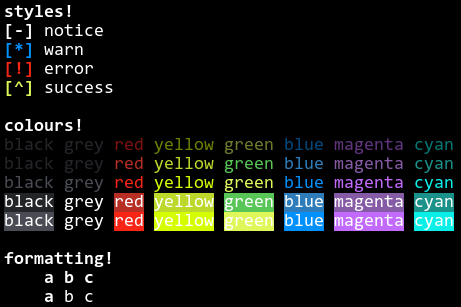
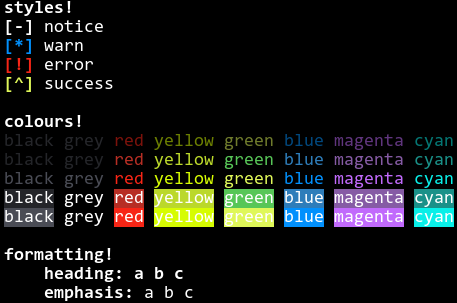
Update picture and add some example code. - New picture to better showcase formatting. - Code example.

diff --git a/tests/wip.cpp b/tests/wip.cpp
@@ -3,15 +3,15 @@
 #include <tinge.hpp>
 
 int main() {
+	// Show some styles.
 	tinge::println_h("\nstyles!");
-
 	tinge::noticeln("notice");
 	tinge::warnln("warn");
 	tinge::errorln("error");
 	tinge::successln("success");
 
 
-
+	// Show some colours.
 	tinge::println_h("\ncolours!");
 
 	tinge::println(
@@ -70,10 +70,10 @@ int main() {
 	);
 
 
+	// Showcase some formatting.
 	tinge::println_h("\nformatting!");
-
-	tinge::println_h("\ta ", "b ", "c");
-	tinge::println_em("\ta ", "b ", "c");
+	tinge::println_h("\theading: ", "a ", "b ", "c");   // Whole line is bold.
+	tinge::println_em("\temphasis: ", "a ", "b ", "c");  // First element is bold.
 
 	tinge::println();
 

diff --git a/README.md b/README.md
@@ -4,3 +4,89 @@ a simple, fast, header-only library for C++ which enables pretty colours on the 
 > Only supports terminals which have support for ANSI escape sequences.
 
 ![example1](pics/example1.png)
+
+
+```cpp
+#include <iostream>
+// #define TINGE_PLAIN
+#include <tinge.hpp>
+
+int main() {
+	// Show some styles.
+	tinge::println_h("\nstyles!");
+	tinge::noticeln("notice");
+	tinge::warnln("warn");
+	tinge::errorln("error");
+	tinge::successln("success");
+
+
+	// Show some colours.
+	tinge::println_h("\ncolours!");
+
+	tinge::println(
+		tinge::fg::dim::black,   "black ",
+		tinge::fg::dim::grey,    "grey ",
+		tinge::fg::dim::red,     "red ",
+		tinge::fg::dim::yellow,  "yellow ",
+		tinge::fg::dim::green,   "green ",
+		tinge::fg::dim::blue,    "blue ",
+		tinge::fg::dim::magenta, "magenta ",
+		tinge::fg::dim::cyan,    "cyan "
+	);
+
+	tinge::println(
+		tinge::fg::black,   "black ",
+		tinge::fg::grey,    "grey ",
+		tinge::fg::red,     "red ",
+		tinge::fg::yellow,  "yellow ",
+		tinge::fg::green,   "green ",
+		tinge::fg::blue,    "blue ",
+		tinge::fg::magenta, "magenta ",
+		tinge::fg::cyan,    "cyan "
+	);
+
+	tinge::println(
+		tinge::fg::bright::black,   "black ",
+		tinge::fg::bright::grey,    "grey ",
+		tinge::fg::bright::red,     "red ",
+		tinge::fg::bright::yellow,  "yellow ",
+		tinge::fg::bright::green,   "green ",
+		tinge::fg::bright::blue,    "blue ",
+		tinge::fg::bright::magenta, "magenta ",
+		tinge::fg::bright::cyan,    "cyan "
+	);
+
+	tinge::println(
+		tinge::bg::black,   "black",   tinge::reset, " ",
+		tinge::bg::grey,    "grey",    tinge::reset, " ",
+		tinge::bg::red,     "red",     tinge::reset, " ",
+		tinge::bg::yellow,  "yellow",  tinge::reset, " ",
+		tinge::bg::green,   "green",   tinge::reset, " ",
+		tinge::bg::blue,    "blue",    tinge::reset, " ",
+		tinge::bg::magenta, "magenta", tinge::reset, " ",
+		tinge::bg::cyan,    "cyan",    tinge::reset
+	);
+
+	tinge::println(
+		tinge::bg::bright::black,   "black",   tinge::reset, " ",
+		tinge::bg::bright::grey,    "grey",    tinge::reset, " ",
+		tinge::bg::bright::red,     "red",     tinge::reset, " ",
+		tinge::bg::bright::yellow,  "yellow",  tinge::reset, " ",
+		tinge::bg::bright::green,   "green",   tinge::reset, " ",
+		tinge::bg::bright::blue,    "blue",    tinge::reset, " ",
+		tinge::bg::bright::magenta, "magenta", tinge::reset, " ",
+		tinge::bg::bright::cyan,    "cyan",    tinge::reset
+	);
+
+
+	// Showcase some formatting.
+	tinge::println_h("\nformatting!");
+	tinge::println_h("\theading: ", "a ", "b ", "c");   // Whole line is bold.
+	tinge::println_em("\temphasis: ", "a ", "b ", "c");  // First element is bold.
+
+	tinge::println();
+
+
+	return 0;
+}
+```
